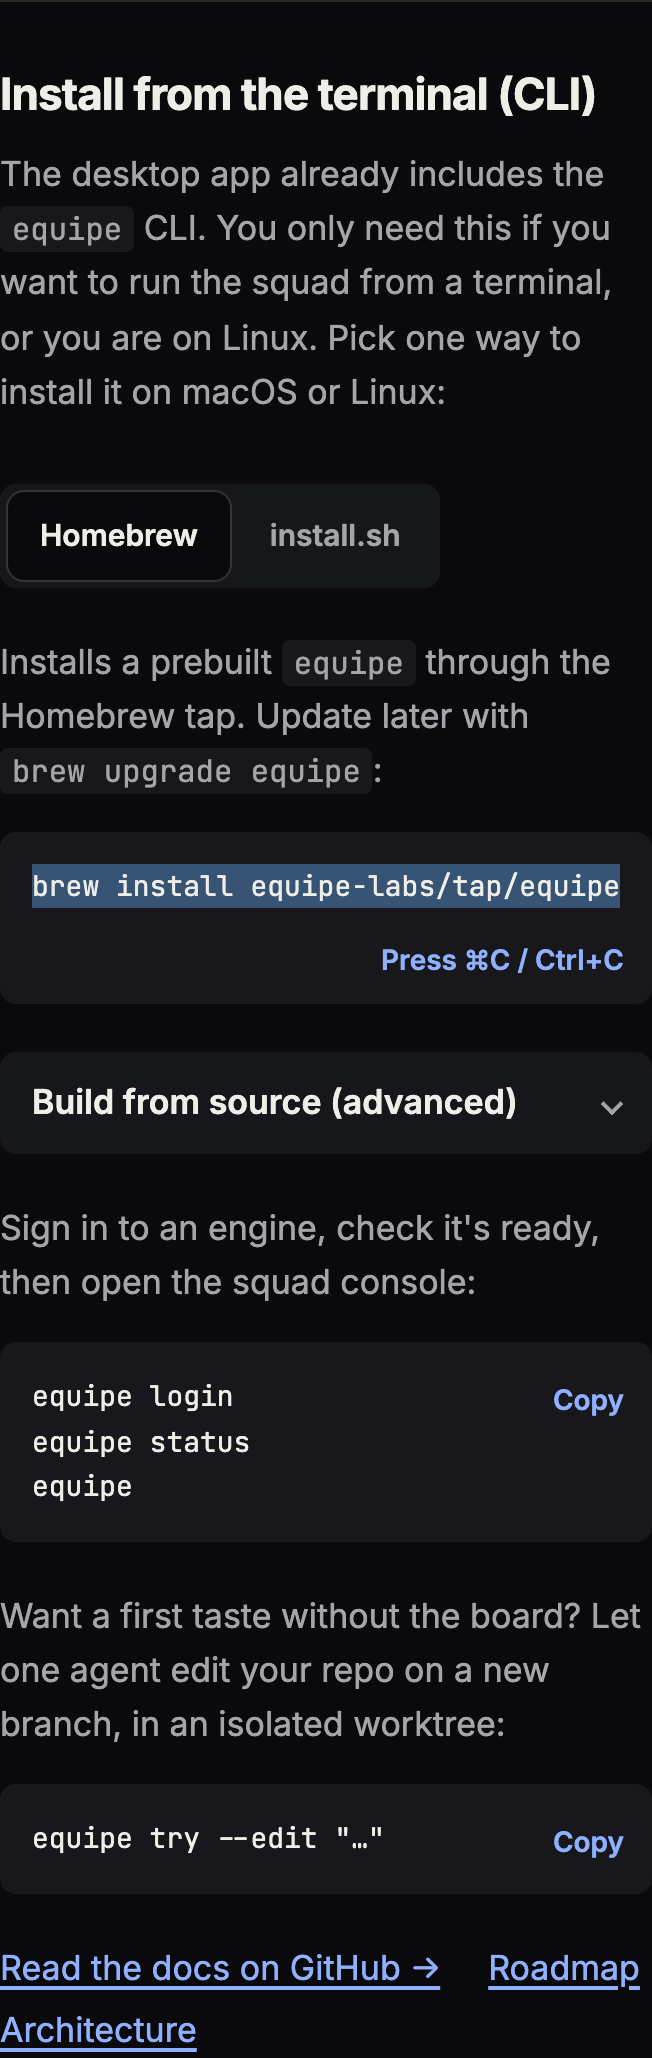
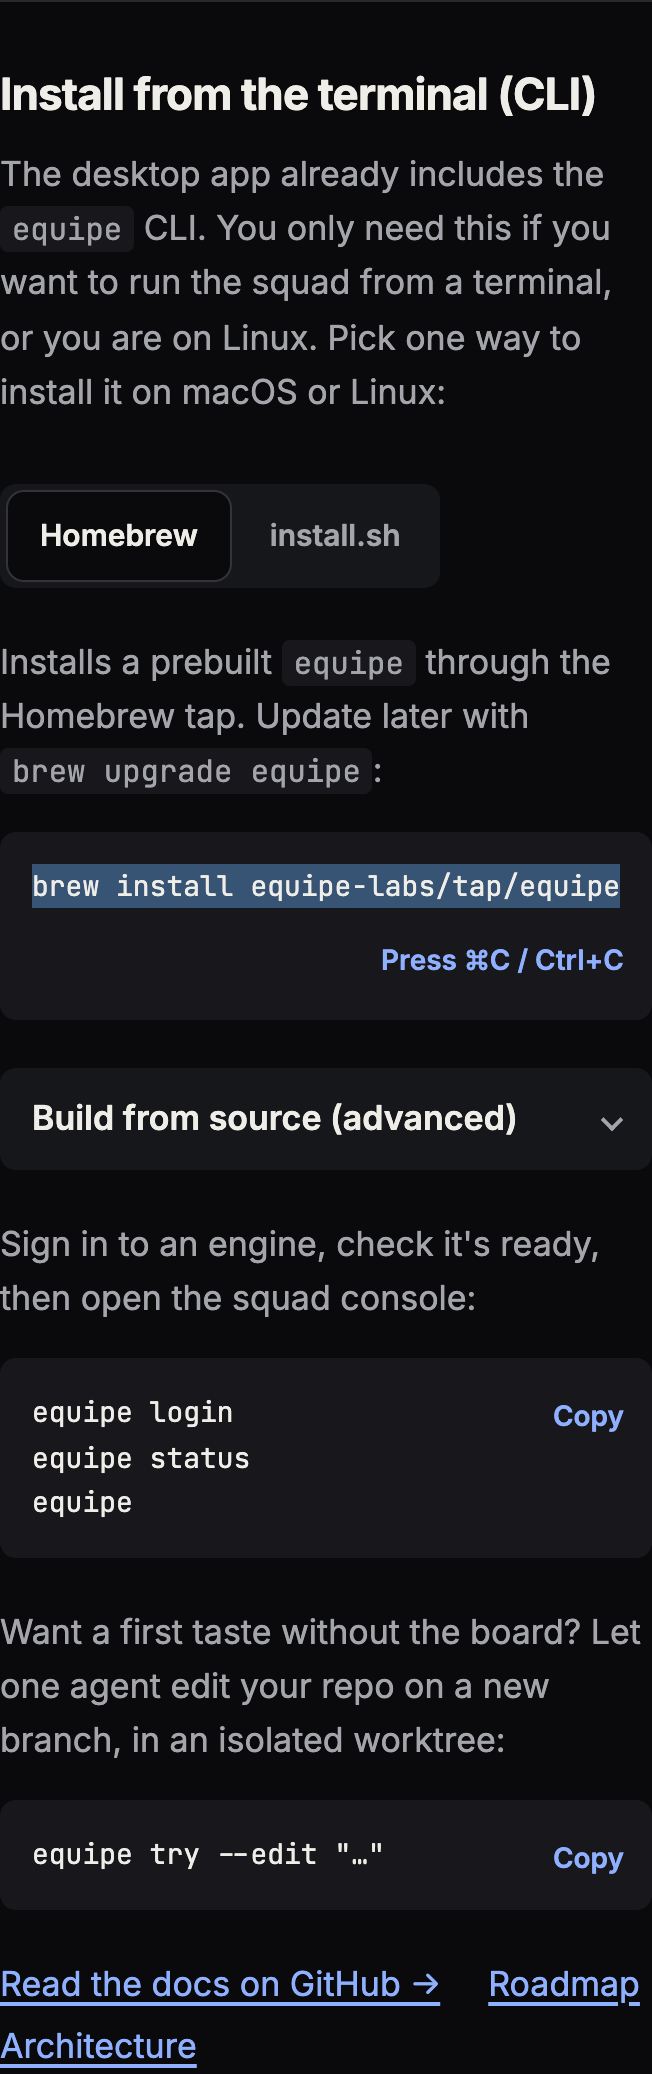
T-383 review fixes: status region for the hint, focus-ring margin, drop stale comment, retake blank self-shots (keep 8)

diff --git a/src/styles/global.css b/src/styles/global.css
@@ -77,7 +77,7 @@ pre { flex: 1; min-width: 0; margin: 0; padding: var(--s-4); overflow-x: auto; f
 pre code { background: none; padding: 0; font-size: inherit; }
 .copy { flex: none; display: none; min-width: var(--tap); min-height: var(--tap); margin: calc((24px + 2 * var(--s-4) - var(--tap)) / 2) var(--s-2) 0 auto; background: none; border: 0; color: var(--accent); font: 600 14px var(--sans); cursor: pointer; }
 .js .copy { display: block; }
-@media (max-width: 640px) { .codeblock:has(.copy.hint) { flex-wrap: wrap; } .codeblock:has(.copy.hint) pre { flex-basis: 100%; } .copy.hint { margin-top: calc(-1 * var(--s-3)); } }
+@media (max-width: 640px) { .codeblock:has(.copy.hint) { flex-wrap: wrap; } .codeblock:has(.copy.hint) pre { flex-basis: 100%; } .copy.hint { margin-top: calc(-1 * var(--s-3)); margin-bottom: var(--s-2); } }
 @media (max-width: 640px) { pre { font-size: 14px; white-space: pre-wrap; overflow-wrap: anywhere; } }
 .links, .foot-links { display: flex; flex-wrap: wrap; gap: var(--s-1) var(--s-5); }
 .links { margin: 0; }
@@ -194,3 +194,5 @@ section.nf-hero + section { border-top: 0; }
 @media (max-width: 359px) {
   header.site .btn.sm { padding: 0 10px; font-size: 13px; }
 }
+
+.sr-only { position: absolute; width: 1px; height: 1px; overflow: hidden; clip-path: inset(50%); white-space: nowrap; }

diff --git a/src/i18n/en.ts b/src/i18n/en.ts
@@ -170,7 +170,6 @@ export const en = {
     sourceTitle: 'Build from source (advanced)',
     source: 'Prefer to build it yourself? Install from source with Rust 1.88+ and git: clone `github.com/equipe-labs/equipe`, then run `cargo install --locked --path crates/cli`. The Claude engine also needs the `claude` binary.',
     run: 'Sign in to an engine, check it\'s ready, then open the squad console:',
-    // Shell comments inside the code block may be translated; the commands must not be.
     runCode: `equipe login
 equipe status
 equipe`,
